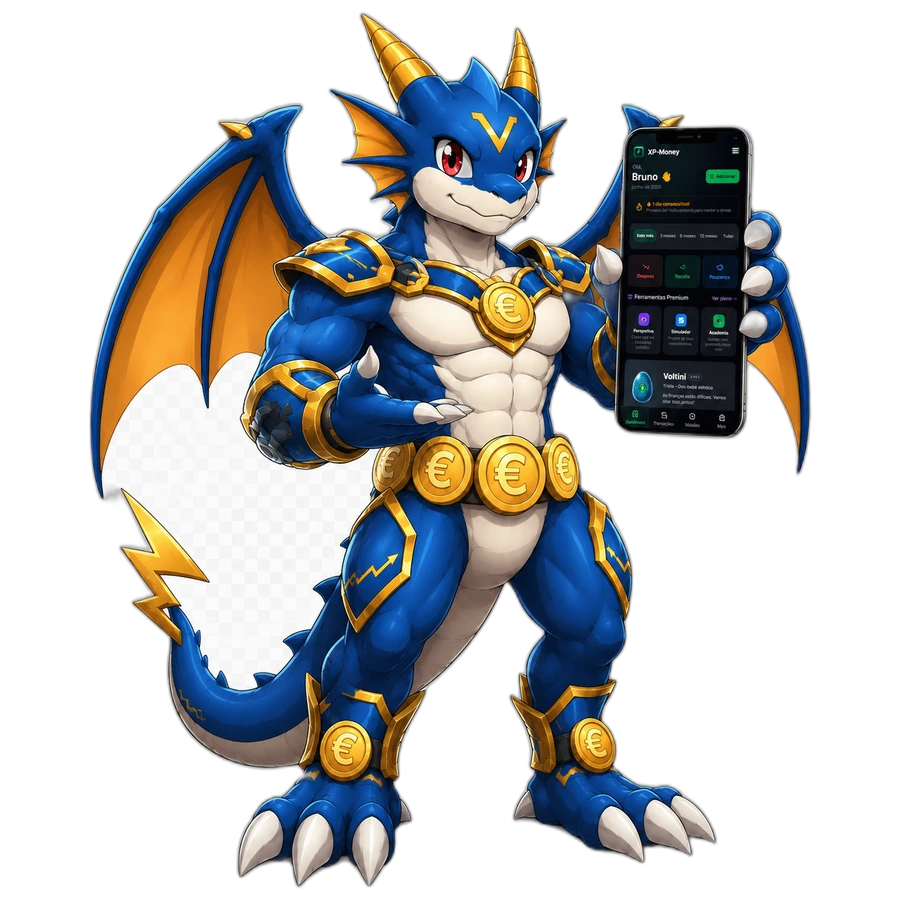
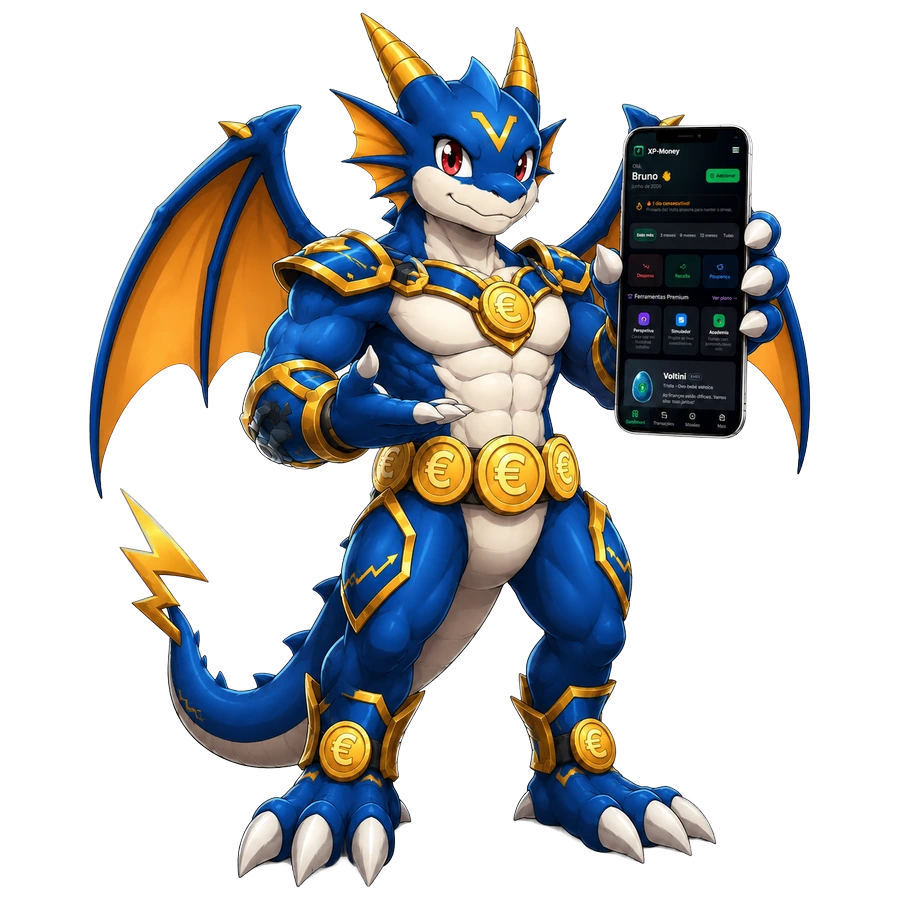
fix(brand): clean hero cutout + remove glow/shadow effects
User disliked the radial glow + drop-shadow on the landing hero mascot — show
the plain photo only. Also re-cut /mascot/hero.webp with the isnet-general-use
model + alpha matting (the u2net pass left a white background remnant on the
left wing). LandingHero now renders the bare <Image> with no glow div and no
drop-shadow class.

diff --git a/src/components/landing/LandingHero.tsx b/src/components/landing/LandingHero.tsx
@@ -168,27 +168,18 @@ export async function LandingHero() {
             <div className="absolute w-[320px] h-[320px] rounded-full bg-yellow-500/10 blur-2xl" />
           </div>
 
-          {/* Main mascot — the "imagem de abertura" hero render (Voltix in its
-              warrior form), shown in full colour. The old PlatedMascot pushed
-              everything to monochrome deep-blue, which buried the gold/orange
-              detail of the new brand art, so we present it directly with a soft
-              radial glow + drop shadow instead. */}
+          {/* Main mascot — the "imagem de abertura" hero render (Voltix warrior
+              holding the app). Shown as the plain image: NO glow, NO drop shadow
+              (the user found those effects worsened it). Just the clean photo. */}
           <div className="relative z-20 -mb-10 pointer-events-none flex justify-center">
-            <div className="relative">
-              <div
-                aria-hidden
-                className="absolute inset-0 -z-10 blur-3xl opacity-60"
-                style={{ background: 'radial-gradient(circle, rgba(37,99,235,0.45), transparent 70%)' }}
-              />
-              <Image
-                src="/mascot/hero.webp"
-                alt={t('landing.hero.voltix_alt')}
-                width={420}
-                height={420}
-                priority
-                className="w-[240px] sm:w-[300px] md:w-[360px] h-auto drop-shadow-[0_20px_50px_rgba(0,0,0,0.55)]"
-              />
-            </div>
+            <Image
+              src="/mascot/hero.webp"
+              alt={t('landing.hero.voltix_alt')}
+              width={420}
+              height={420}
+              priority
+              className="w-[240px] sm:w-[300px] md:w-[360px] h-auto"
+            />
           </div>
 
           {/* Device card */}
